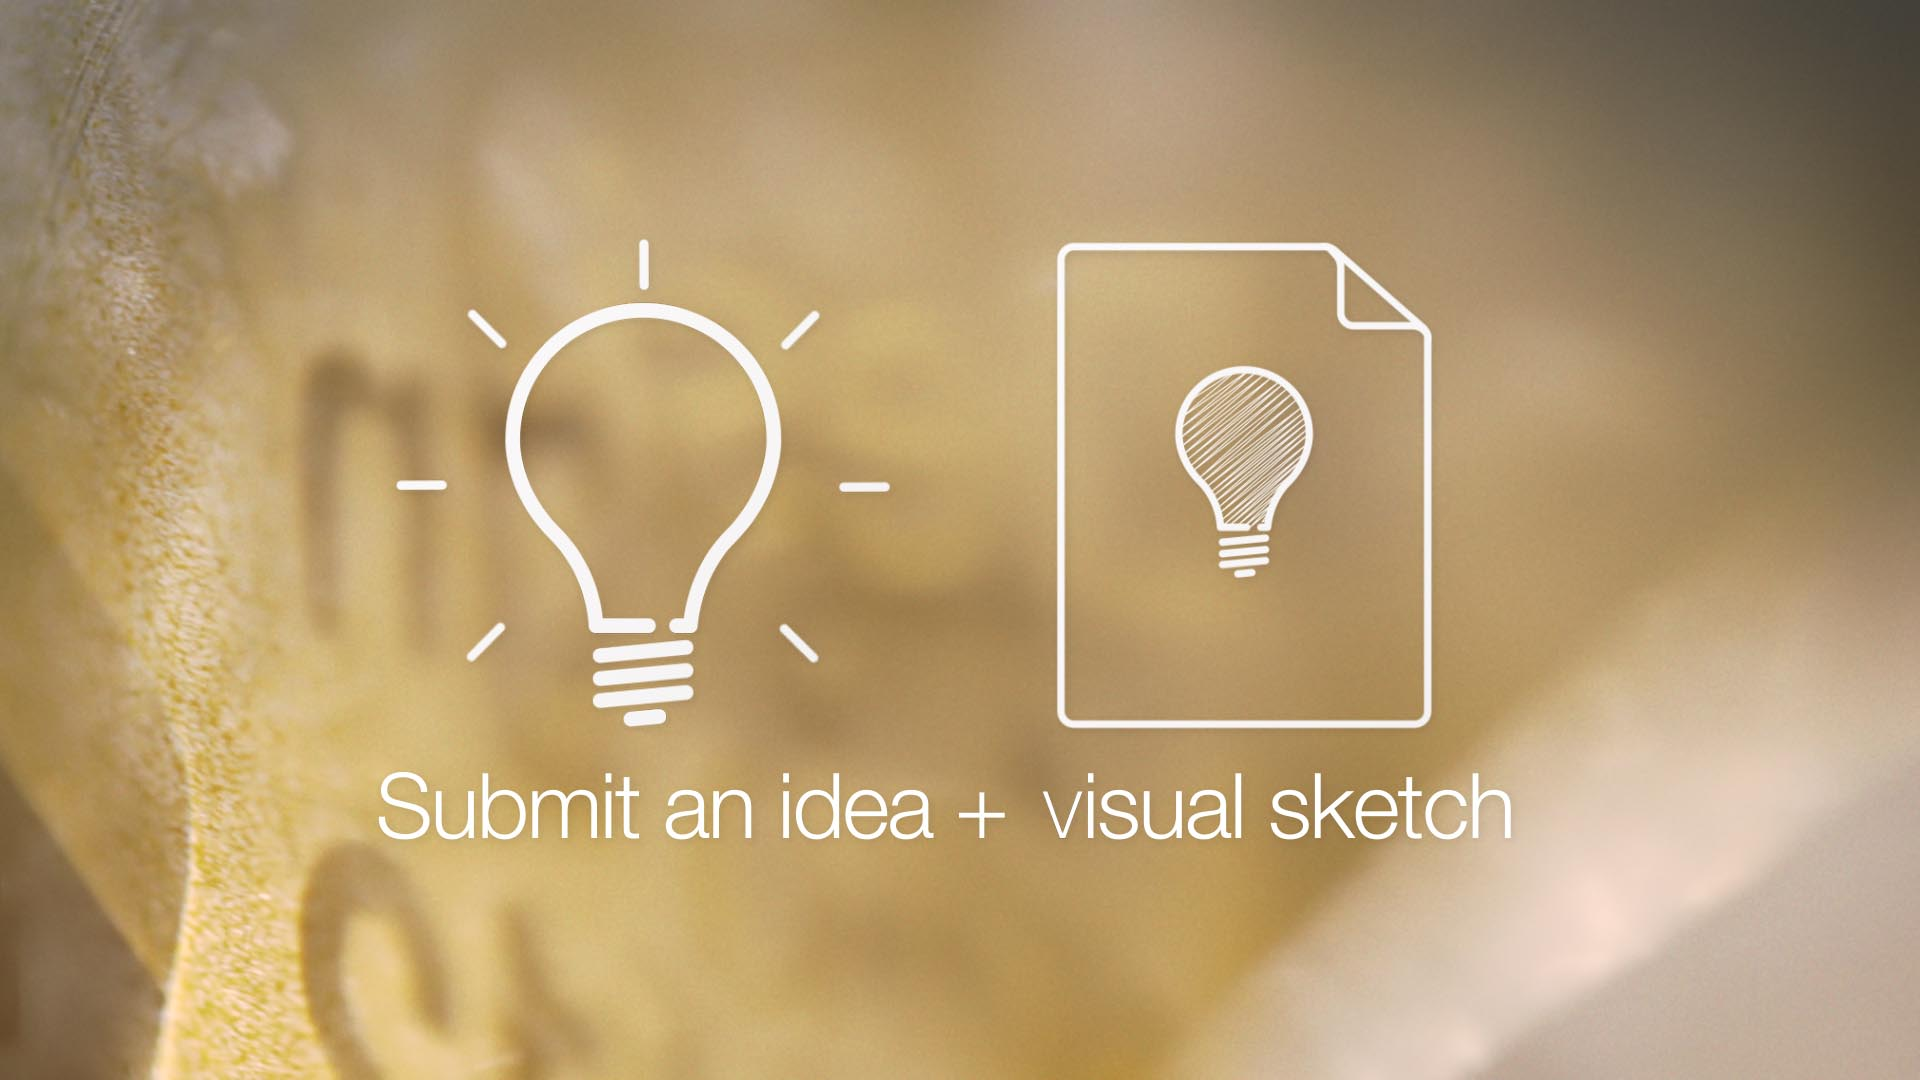
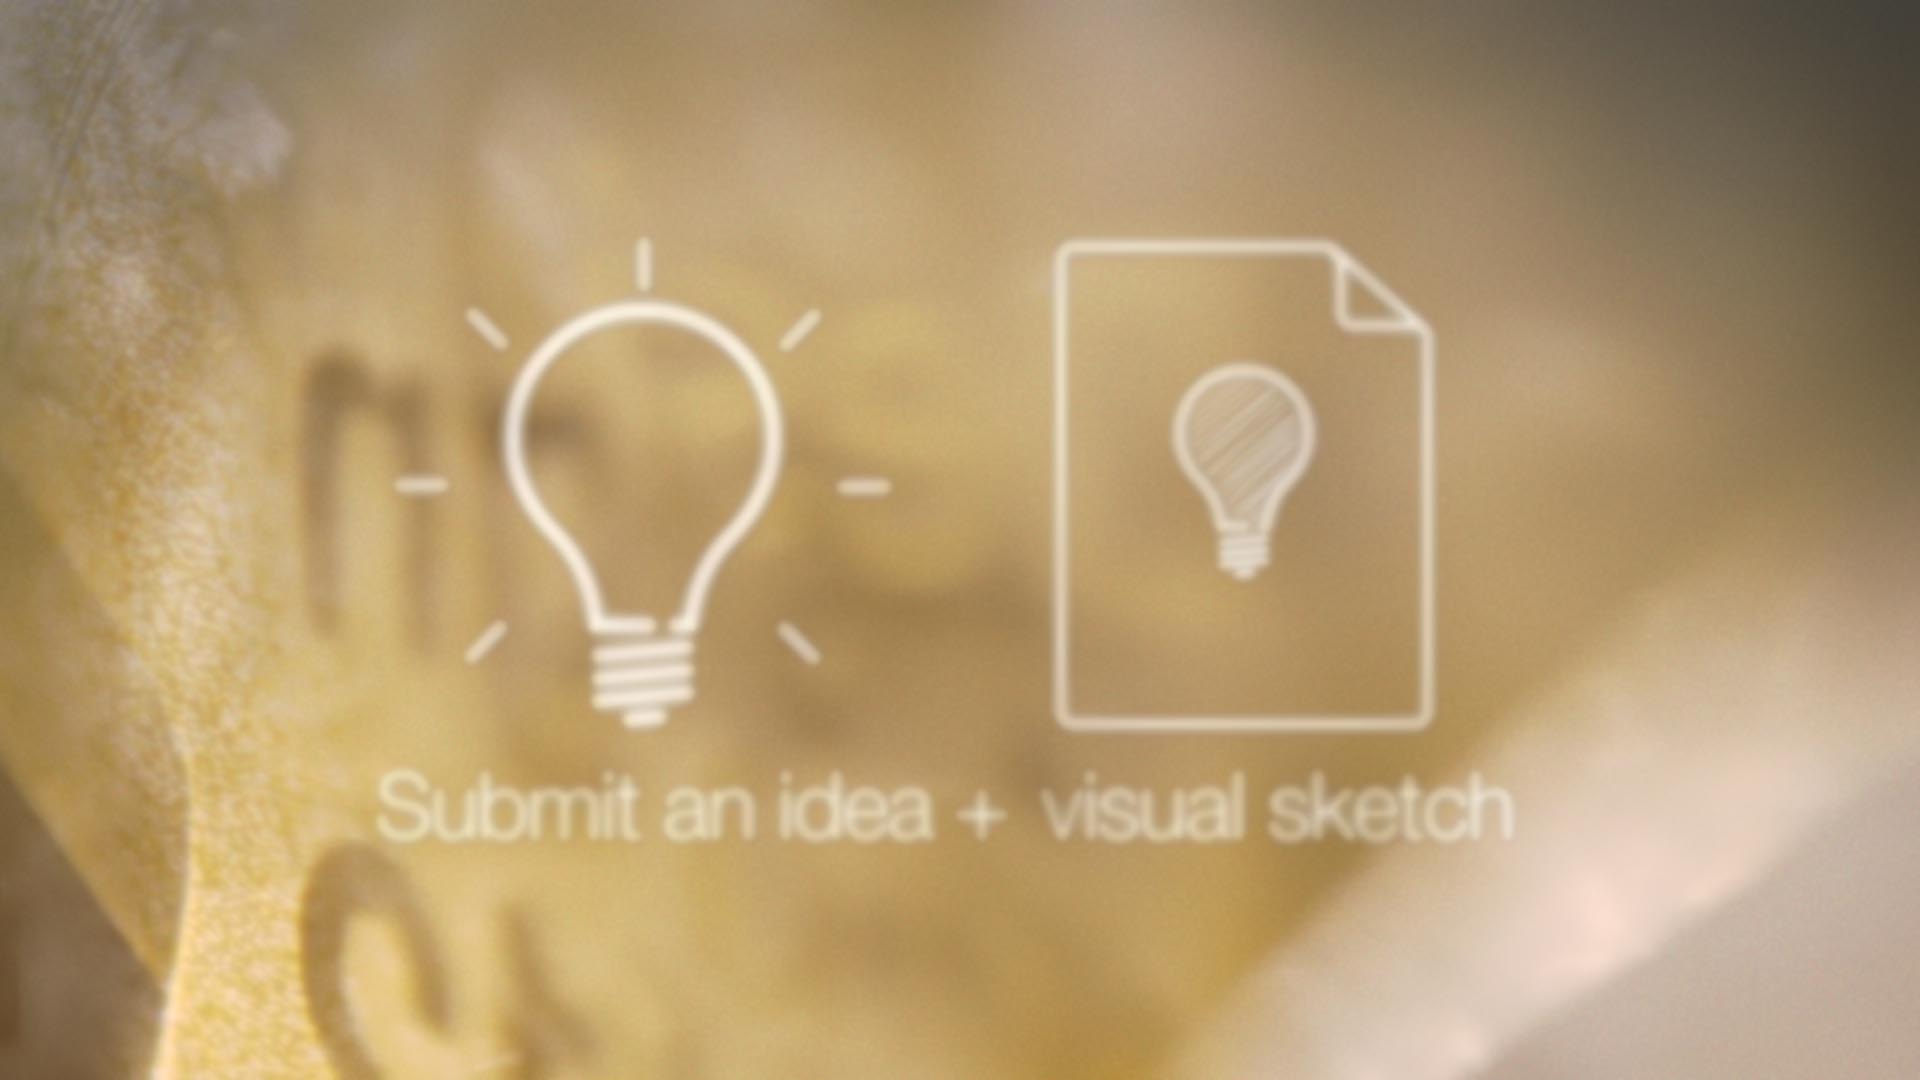
Change font and background colors

diff --git a/src/main/resources/static/css/regis_form.css b/src/main/resources/static/css/regis_form.css
@@ -19,7 +19,7 @@
 }
 
 .login-link {
-	color: teal;
+	color: #004646;
 }
 
 .date-col {
@@ -47,7 +47,7 @@
 }
 
 .login-screen {
-    background-image: url(/images/header-bg-image.jpg);
+    background-image: url(/images/typing.jpg);
     background-position: center;
     background-repeat: no-repeat;
     background-attachment: fixed;
@@ -65,7 +65,7 @@
 
 .login-screen:before {
     content: "";
-    background: rgba(0,0,0, 0.5);
+    background: rgba(0,0,0, 0.2);
     position: fixed;
     width: 100%;
     height: 100%;
@@ -107,4 +107,21 @@
 
 select option {
 	color: #000;
+}
+
+.form-control::placeholder {
+	color: #fff;
+}
+
+.form-control {
+	border: 1px solid #fff;
+}
+
+label {
+	font-size: 16px;
+}
+
+.required:after { 
+   content:"*" !important;
+   color:#d90000;
 }
